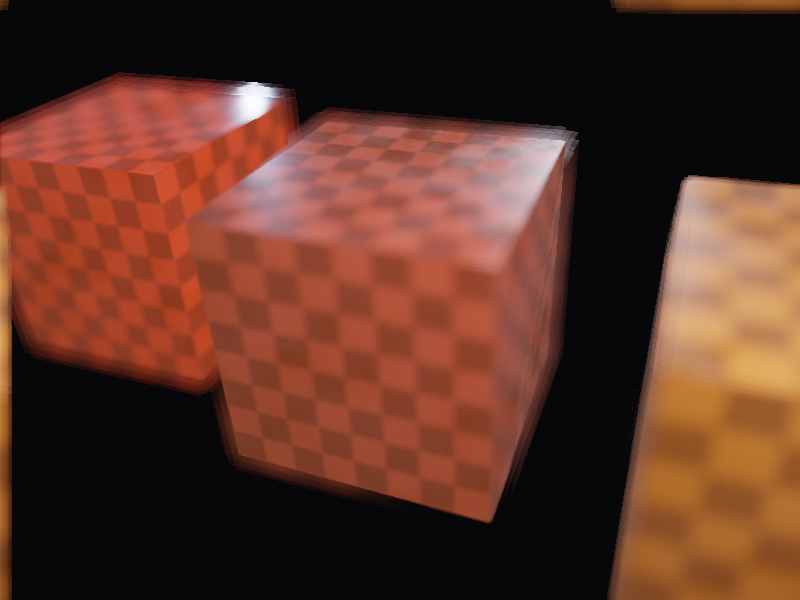
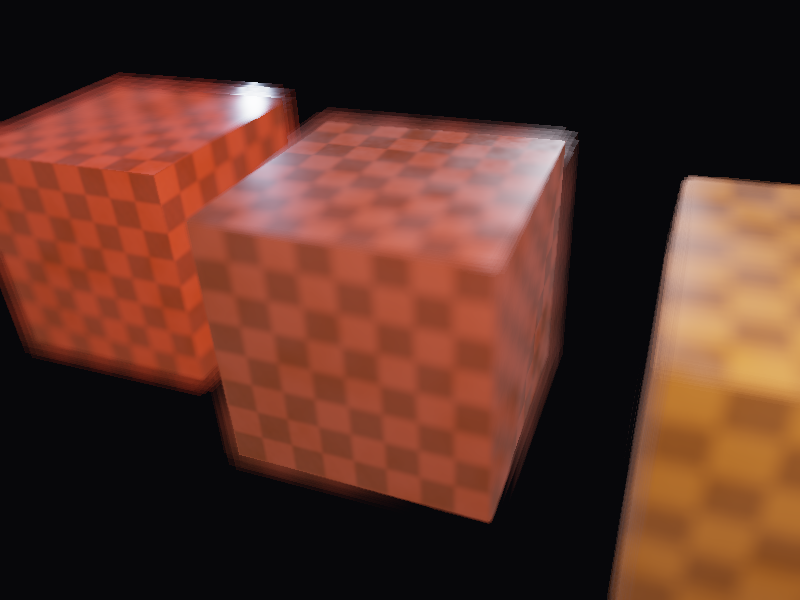
fix: clamp DOF gathers to the frame, and tear the demo plan down before rebuilding it
Two bugs from the gallery:

The DOF gathers sampled a disc past the frame edge, and an out-of-bounds
textureLoad reads zeros — black streaked into the blur at the borders.
Both passes now clamp every sample to the texture's extent.

The subsurface demo failed to display when navigating back into it:
set_features ran while the previous demo's wide lighting set was still
installed, and the feature channel against that set exceeds the portable
byte budget, so the call errored. Features and the lighting set validate
against each other, so apply() now tears the plan down first — drop the
channels, install the set the demo picked, then bring the channels back
on top of it.

Changed region(s): [[0.0, 0.3, 0.0312, 1.0], [0.75, 0.0, 1.0, 0.03], [0.0, 0.0, 0.0312, 0.03]]

diff --git a/crates/wxsl/examples/gallery.rs b/crates/wxsl/examples/gallery.rs
@@ -1475,12 +1475,15 @@ fn bloom_instances_document() -> Graph {
 /// Stock pipelines go through `set_pipeline`; documents through the
 /// public compiler and `set_graph`; hand-built pass lists through
 /// `set_graph` directly — the same moves an application makes, and why a
-/// gallery demo is not a renderer feature. Features (plan2 P12) are
-/// applied first, because they reshape the G-buffer every pipeline
-/// variant builds against.
+/// gallery demo is not a renderer feature. Features (plan2 P12) and the
+/// lighting set validate *against each other* — the feature channel is
+/// budgeted against the set that carries it — so the plan is torn down
+/// before it is rebuilt: dropping the channels first means the new set
+/// compiles alone, and the new demo's channels land on the set that was
+/// picked for them.
 fn apply(demo: &Demo, renderer: &mut Renderer) -> Result<(), Box<dyn Error>> {
-    if renderer.features() != demo.features {
-        renderer.set_features(demo.features)?;
+    if !renderer.features().is_empty() && renderer.features() != demo.features {
+        renderer.set_features(&[])?;
     }
     // Layer models fill the portable budget alone; the subsurface model
     // joins them because the feature's channel pushes a dispatching set
@@ -1500,6 +1503,9 @@ fn apply(demo: &Demo, renderer: &mut Renderer) -> Result<(), Box<dyn Error>> {
     };
     if renderer.lighting() != &set {
         renderer.set_lighting(set)?;
+    }
+    if !demo.features.is_empty() && renderer.features() != demo.features {
+        renderer.set_features(demo.features)?;
     }
     // The bake table's view rides only with its demo: the next pass list
     // declares no such resource, and a view nothing declares is an error
